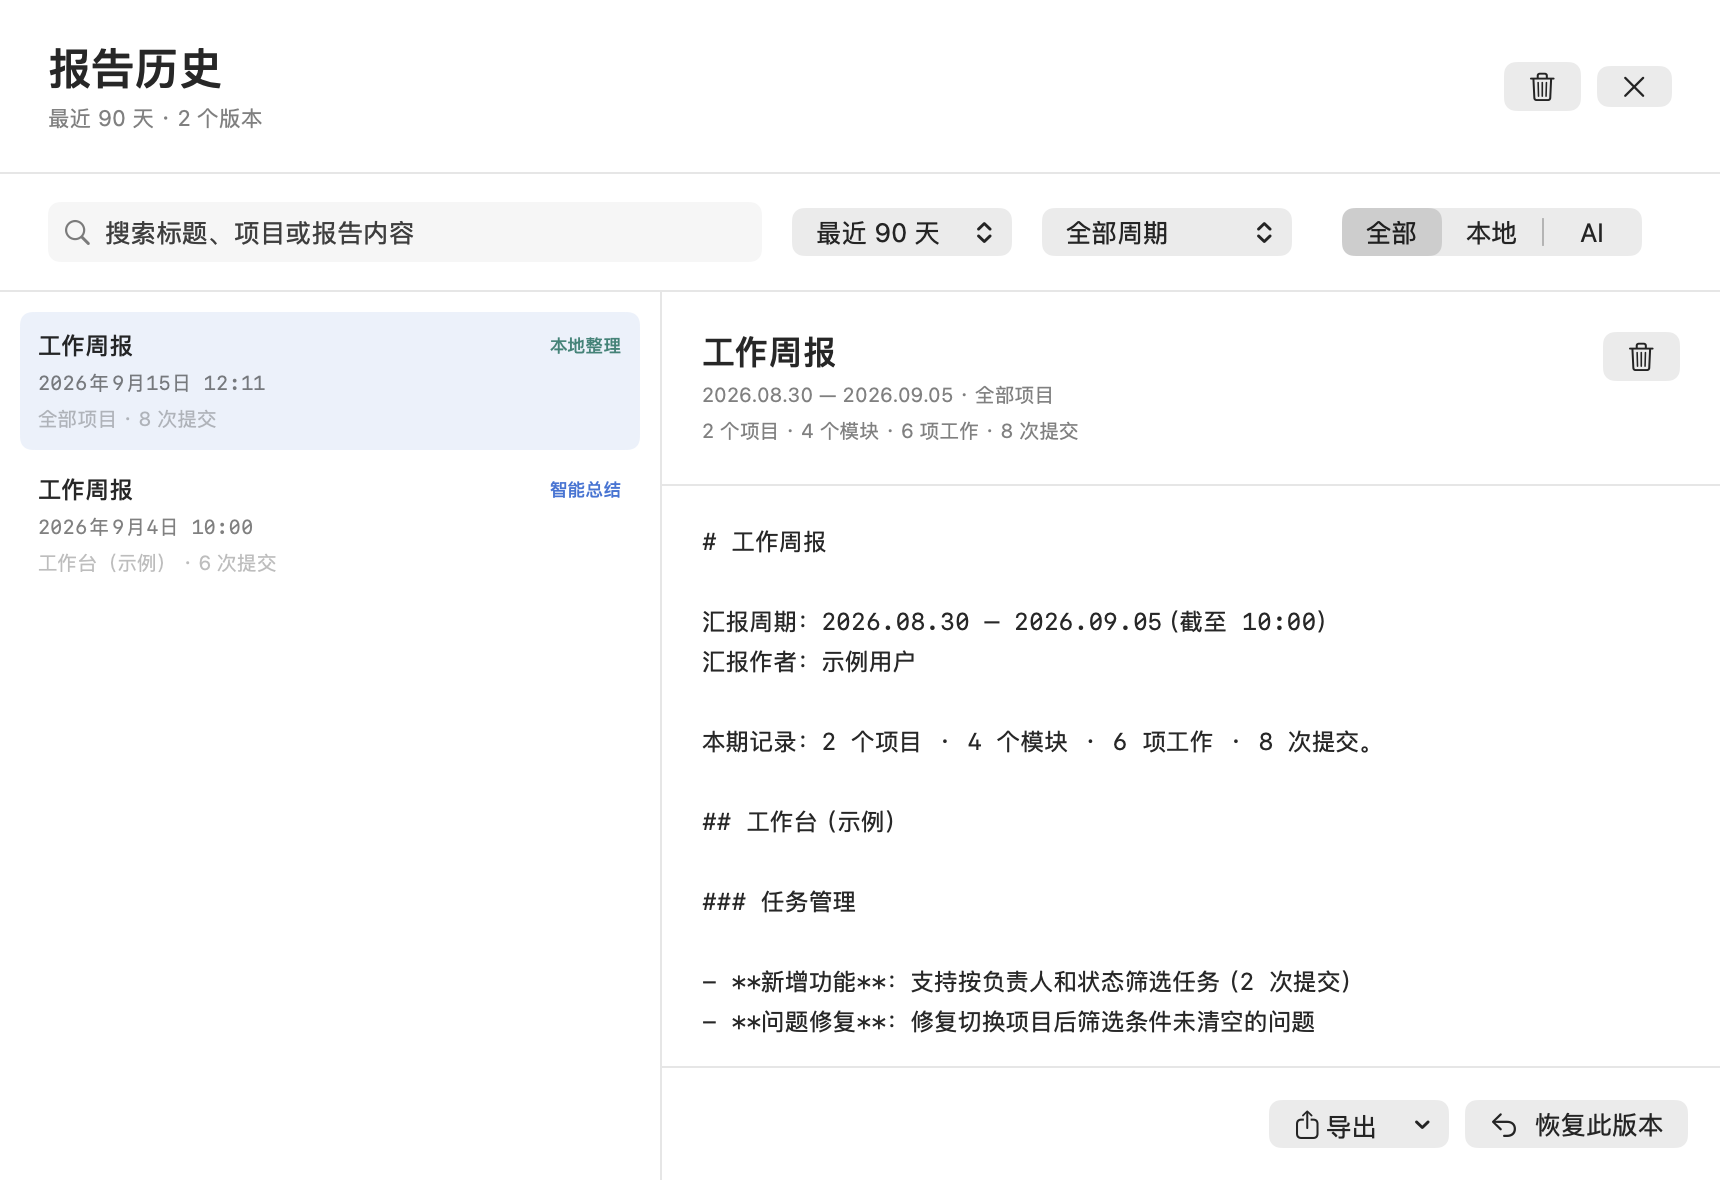
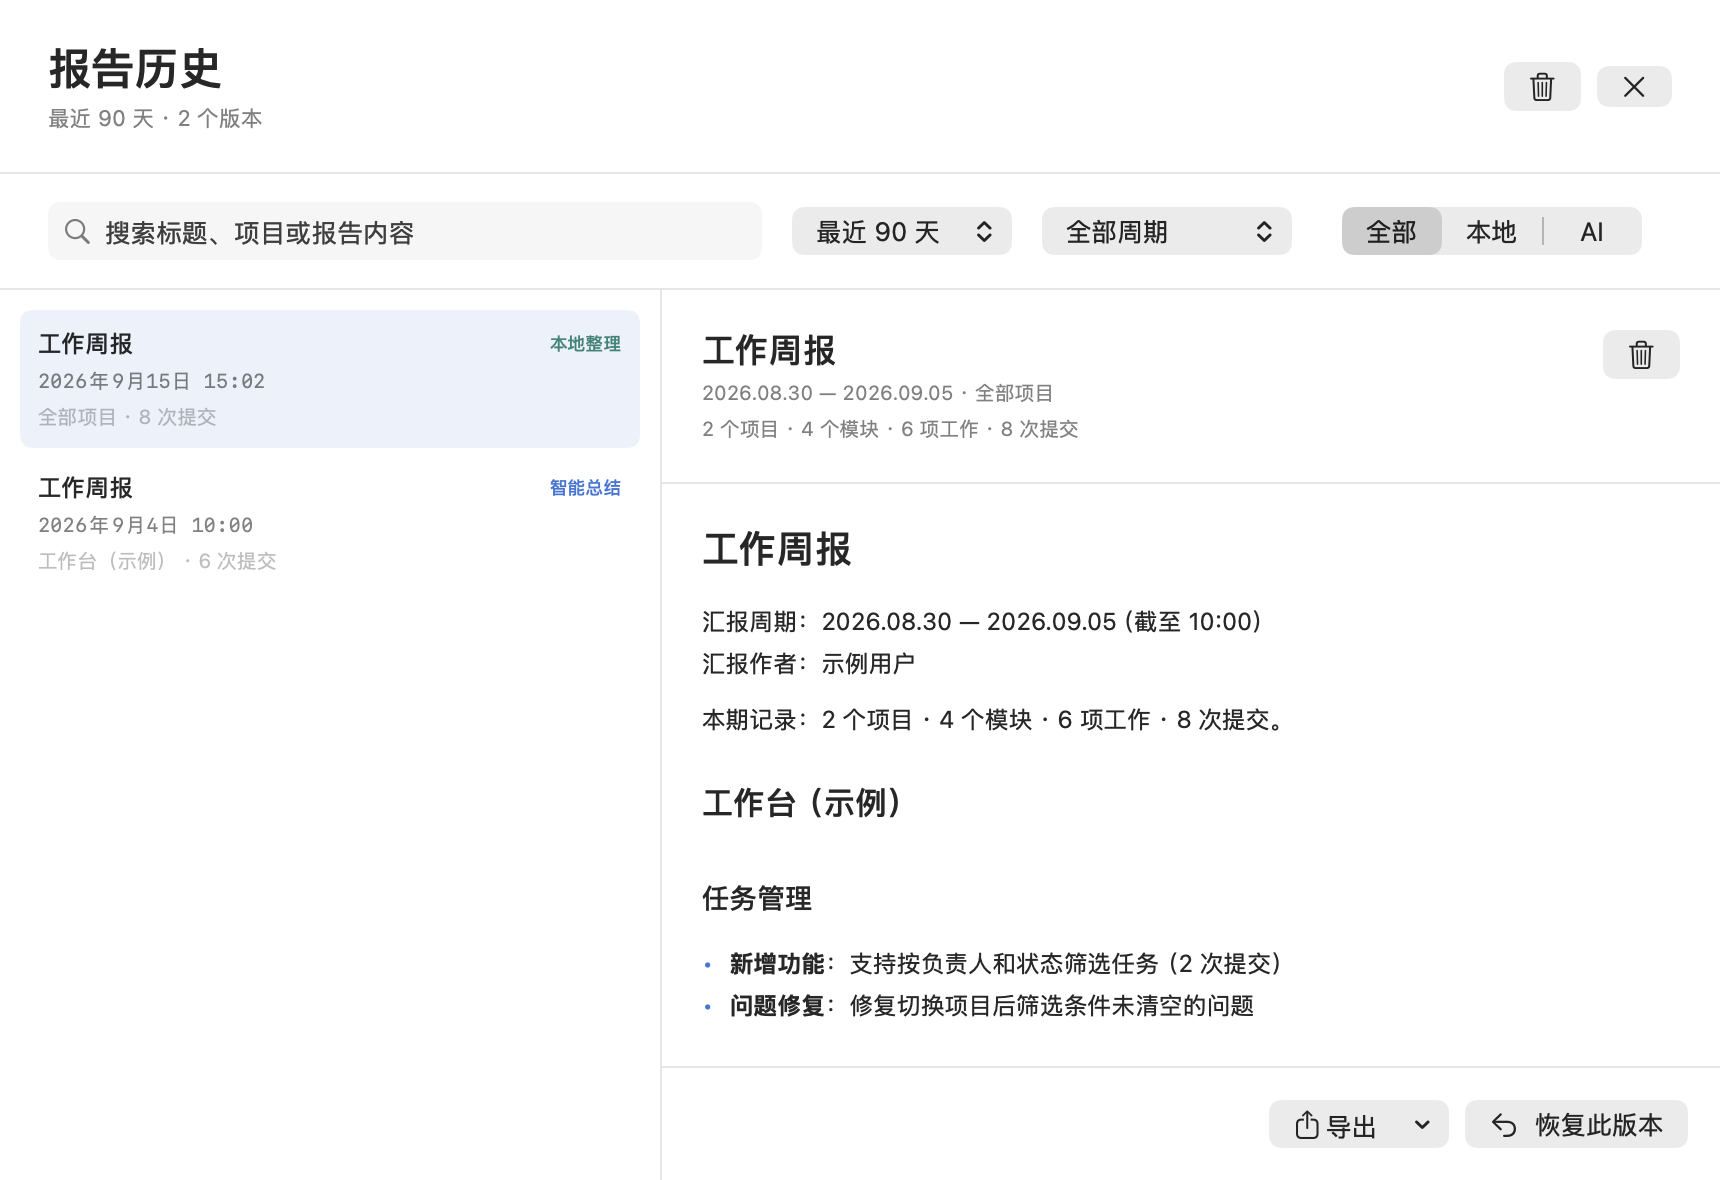
docs(release): publish CommitBrief 0.3.1

diff --git a/CHANGELOG.md b/CHANGELOG.md
@@ -1,5 +1,13 @@
 # 更新日志
 
+## 0.3.1 · 2026-09-15
+
+- 报告区新增「阅读 / Markdown」切换；阅读模式按标题、列表和引用排版，不显示 Markdown 标记。
+- 复制按钮和 `⇧⌘C` 跟随当前显示模式，TXT 导出改为无 Markdown 标记的简洁文本。
+- 历史报告预览使用相同的阅读排版。
+- API Key 输入框增加显隐按钮，可按需读取钥匙串中的已保存 Key 进行核对或修改。
+- 默认仍隐藏 API Key；切换服务地址、清除 Key 或关闭窗口会退出明文显示。
+
 ## 0.3.0 · 2026-09-15
 
 ### 报告输出与历史

diff --git a/docs/PRIVACY.md b/docs/PRIVACY.md
@@ -1,6 +1,6 @@
 # 隐私与数据说明
 
-适用于 CommitBrief 0.3.0。
+适用于 CommitBrief 0.3.1。
 
 CommitBrief 的基础整理在本机完成。应用没有账户系统、云端同步、遥测或广告服务；不会自动上传 Git 仓库。可选 AI 功能直接请求你配置的模型服务，不经过 CommitBrief 的中转服务器。
 
